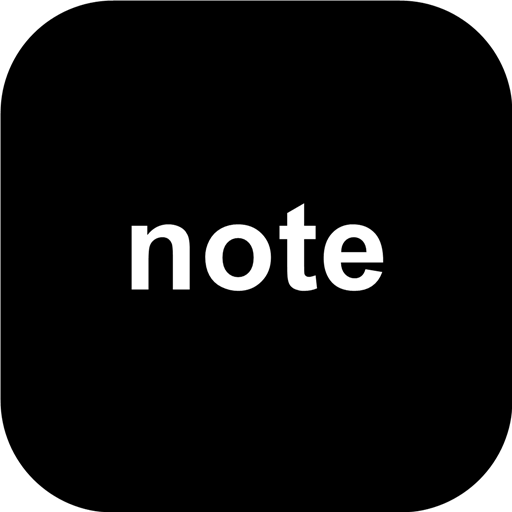
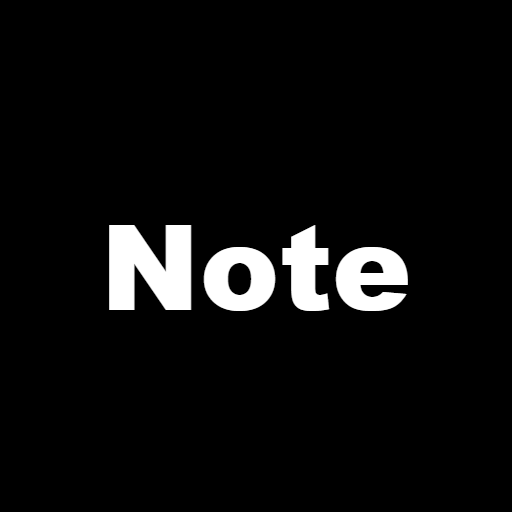
v5.6 连续纸无缝合拢+分割线、深色画布去掉大白框、多种滑动方式（双指/拖动/滚轮）、图标改为黑底 Note

diff --git a/js/app.js b/js/app.js
@@ -8,7 +8,7 @@ import { newId, newLibrary, newNote, newPage, loadLibrary, saveLibrary, loadLoca
 import { DrawingEngine, PAGE_W, PAGE_H, renderPageToCanvas, paperInfo } from './drawing.js';
 import { canvasesToPdf } from './pdf.js';
 
-const APP_VERSION = '5.5';
+const APP_VERSION = '5.6';
 const $ = (s) => document.querySelector(s);
 const FONT = '-apple-system, BlinkMacSystemFont, "PingFang SC", "Hiragino Sans GB", "Microsoft YaHei", sans-serif';
 
@@ -2424,6 +2424,23 @@ function bindV426UI() {
       }
     }, true);
     ph.addEventListener('pointercancel', () => { swipe = null; }, true);
+    // 非纸张区域单指拖动滚动 + 鼠标滚轮滚动
+    let dragScroll = null;
+    ph.addEventListener('pointerdown', (e) => {
+      if (e.pointerType !== 'touch' && e.pointerType !== 'mouse') return;
+      if (e.target.closest('.paper-slot')) return;
+      dragScroll = { id: e.pointerId, y0: e.clientY, st0: ph.scrollTop };
+    }, true);
+    ph.addEventListener('pointermove', (e) => {
+      if (!dragScroll || dragScroll.id !== e.pointerId) return;
+      ph.scrollTop = dragScroll.st0 - (e.clientY - dragScroll.y0);
+    }, true);
+    ph.addEventListener('pointerup', () => { dragScroll = null; }, true);
+    ph.addEventListener('pointercancel', () => { dragScroll = null; }, true);
+    ph.addEventListener('wheel', (e) => {
+      e.preventDefault();
+      ph.scrollTop += e.deltaY;
+    }, { passive: false });
   }
 }
 /* ---------------- AI 助手（DeepSeek，经本地服务器代理） ---------------- */

diff --git a/css/app.css b/css/app.css
@@ -1021,3 +1021,20 @@ body.fav-editing .fav-chip:hover { background: rgba(220,38,38,.12); color: #dc26
 #viewCanvas { position: absolute; inset: 0; width: 100%; height: 100%; touch-action: none; }
 .text-layer { position: absolute; inset: 0; pointer-events: none; z-index: 5; }
 .empty-state { position: absolute; inset: 0; display: flex; flex-direction: column; align-items: center; justify-content: center; text-align: center; }
+
+/* ============ v5.6 连续纸无缝合拢 + 深色画布（只要纸张） ============ */
+.paper-holder { background: #16181d !important; }
+.paper-stack { gap: 0; padding: 28px 0 90px; }
+.paper-slot {
+  width: min(96%, 780px);
+  border-radius: 0;
+  box-shadow: none;
+  background: #fffefb;
+}
+.paper-slot:not(:last-child) { border-bottom: 1px solid rgba(15,23,42,.18); }
+.paper-slot.current { box-shadow: inset 0 0 0 2px var(--accent); }
+.paper-slot.placeholder { background: rgba(255,255,255,.07); box-shadow: none; }
+.paper-slot.placeholder:not(:last-child) { border-bottom: 1px solid rgba(255,255,255,.14); }
+.paper-slot.placeholder .paper-slot-num { color: rgba(255,255,255,.45); }
+.paper-slot-num { color: rgba(15,23,42,.38); }
+.paper-holder::before { display: none !important; }

diff --git a/sw.js b/sw.js
@@ -1,5 +1,5 @@
 /* 笔记 · Service Worker —— 离线可用 */
-const CACHE = 'note2-v19';
+const CACHE = 'note2-v20';
 const ASSETS = [
   './',
   './index.html',
